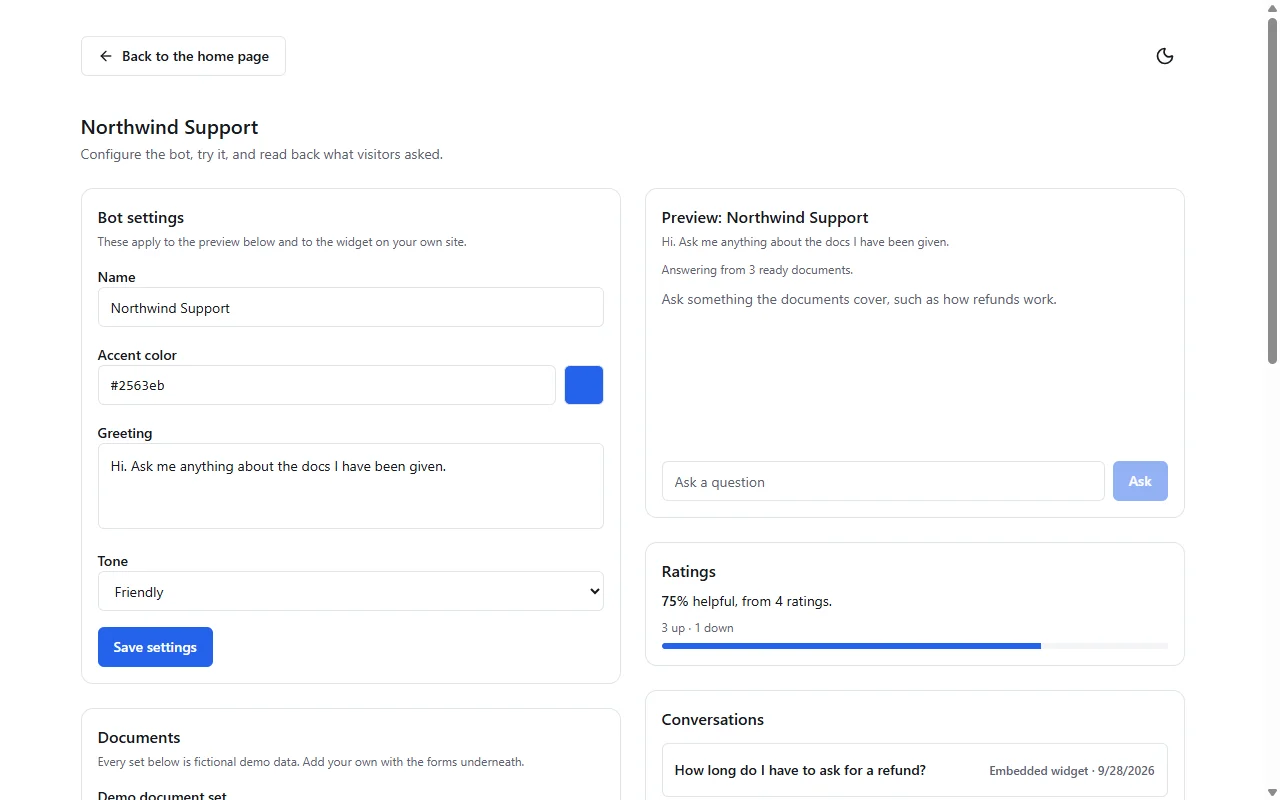
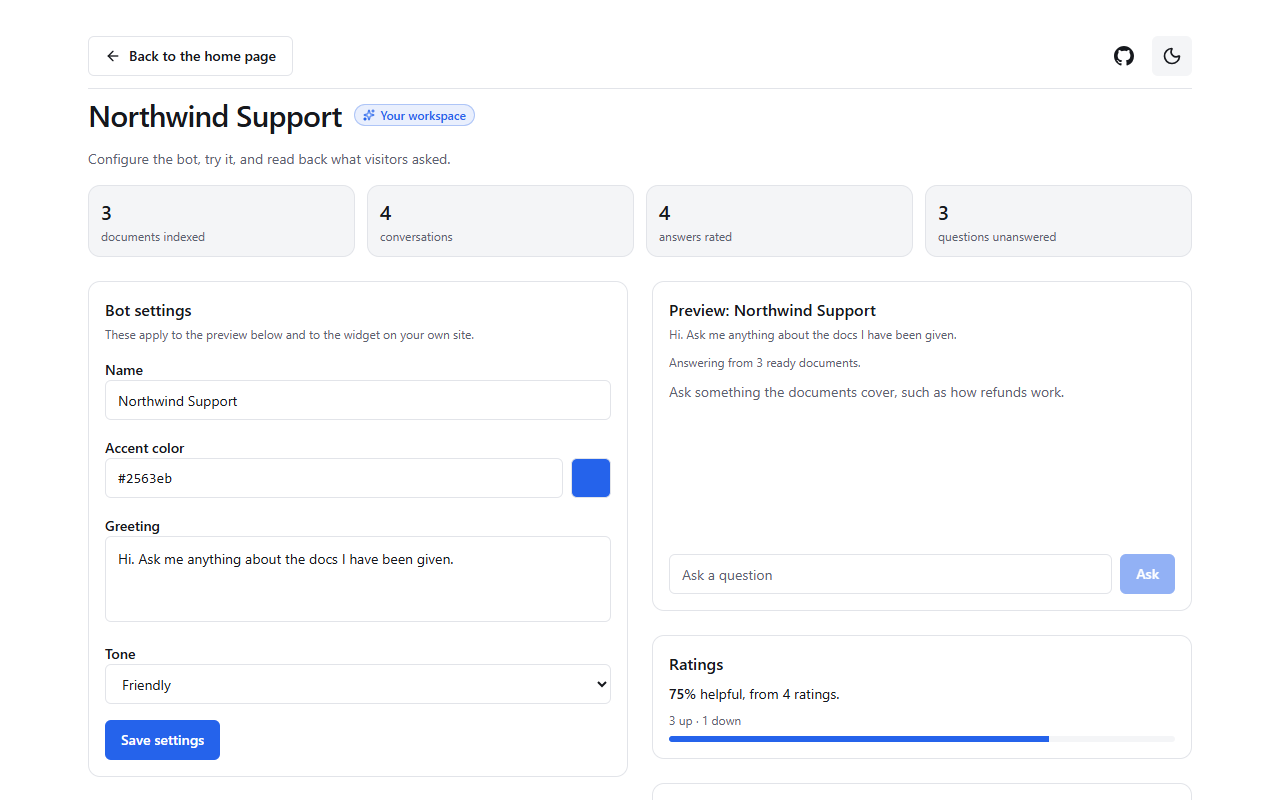
chore: retake the dashboard screenshots
The header, the count tiles and the top bar's border are all new, so the
pair on the landing page and in the README showed a dashboard that no
longer exists. Taken from the local dashboard on 5181 at 1280 by 800,
light and dark, with the scrollbar hidden.

Playwright encodes WebP itself with type: 'webp', so the canvas
round-trip the last retake needed is gone. The widget shots are
untouched; nothing about the widget changed.

diff --git a/handoff.md b/handoff.md
@@ -193,13 +193,13 @@ The app starts on the landing page at `/`. Below the chat box it now has "How it
 
 The landing page's column is `max-w-4xl` from 2026-09-29, wider than its old `max-w-2xl` but narrower than the dashboard's `max-w-6xl`, and the footer on it takes the same width so the edges line up; the About page stays at `max-w-2xl`.
 
-They were taken from the live site with Playwright at 1280 by 800. The widget shot needed the panel's fixed height lifted in the page (`[role=dialog]` height auto, its scroll area overflow visible) so the whole answer and both sources fit, and the dark and light widget shots are the same answer with the toggle clicked between them, so only one live question was spent. Retake them after any visible UI change. No WebP encoder is installed on this machine (no Pillow, `cwebp` or ImageMagick), so the 2026-09-29 retake saved PNGs with Playwright, drew them onto a canvas in the browser and wrote `canvas.toDataURL('image/webp', 0.85)` back to disk. That came out near 38KB per dashboard shot, against about 90KB for the originals.
+They were taken from the live site with Playwright at 1280 by 800. The widget shot needed the panel's fixed height lifted in the page (`[role=dialog]` height auto, its scroll area overflow visible) so the whole answer and both sources fit, and the dark and light widget shots are the same answer with the toggle clicked between them, so only one live question was spent. Retake them after any visible UI change. No WebP encoder is installed on this machine (no Pillow, `cwebp` or ImageMagick), so the first 2026-09-29 retake saved PNGs with Playwright, drew them onto a canvas in the browser and wrote `canvas.toDataURL('image/webp', 0.85)` back to disk. The second retake, later the same day, found the simpler route: Playwright's own `screenshot` takes `type: 'webp'`, so Chromium encodes the file directly, and a style injected first hides the scrollbar. Those come out near 105KB per dashboard shot.
 
 ### Navigation and the lightbox, 2026-09-29
 
 The owner asked for three changes. The landing page now opens with a `Site` nav bar: the product name on the left, and `Open the dashboard` (a link styled as an outline button) beside the theme toggle on the right; the old link at the foot of the page stays. Each screenshot is a button that opens the same themed image full size in `Lightbox`, a new centered Radix dialog in `packages/ui/src/lightbox.tsx`, closed by Escape, a click outside or its close button. The dashboard has the same `Site` bar on every state (loading, failed, loaded) with `Back to the home page` linking `/` and the toggle. In development that link goes nowhere, because the dashboard is its own server on 5181; in production both share an origin. Tests cover each change. Deployed in `d44f35b`; CI passed and the live dashboard bundle carries the back link.
 
-~~The landing's dashboard screenshots predate the back link, so retake them (see "Landing content and screenshots") before the README task reuses them.~~ **Retaken 2026-09-29** from the live dashboard at 1280 by 800, light and dark, now showing the back link. The widget shots were left alone, since the nav never touches the widget. The widget's bubble sits above the lightbox overlay, since the widget host uses a very high z-index; it looks odd but blocks nothing.
+~~The landing's dashboard screenshots predate the back link, so retake them (see "Landing content and screenshots") before the README task reuses them.~~ **Retaken 2026-09-29** from the live dashboard at 1280 by 800, light and dark, now showing the back link. Retaken again later that day, from the local dashboard on 5181 rather than the live site, so they show the new header, its count tiles and the top bar's border. The widget shots were left alone, since the nav never touches the widget. The widget's bubble sits above the lightbox overlay, since the widget host uses a very high z-index; it looks odd but blocks nothing.
 
 ### Footer, RAG label and About, 2026-09-29
 
